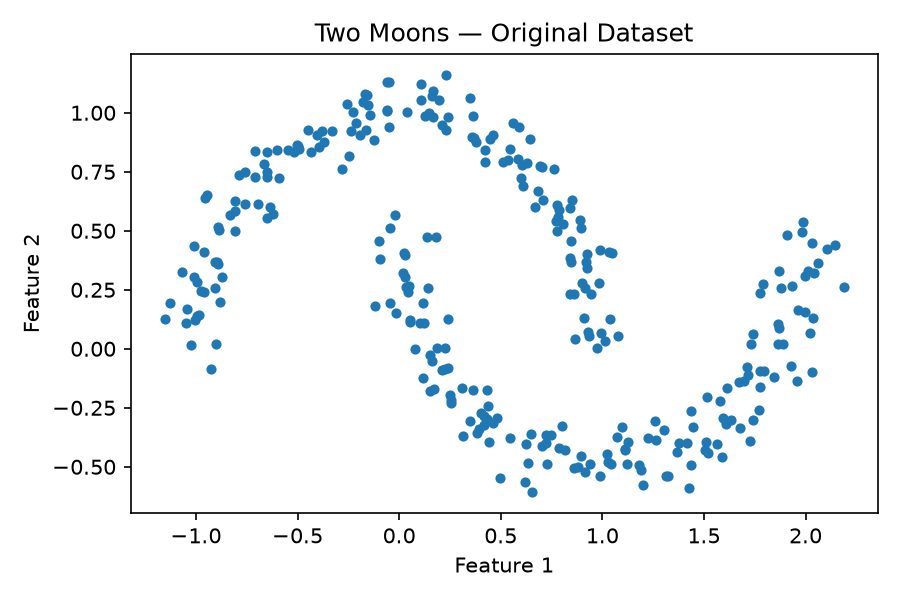
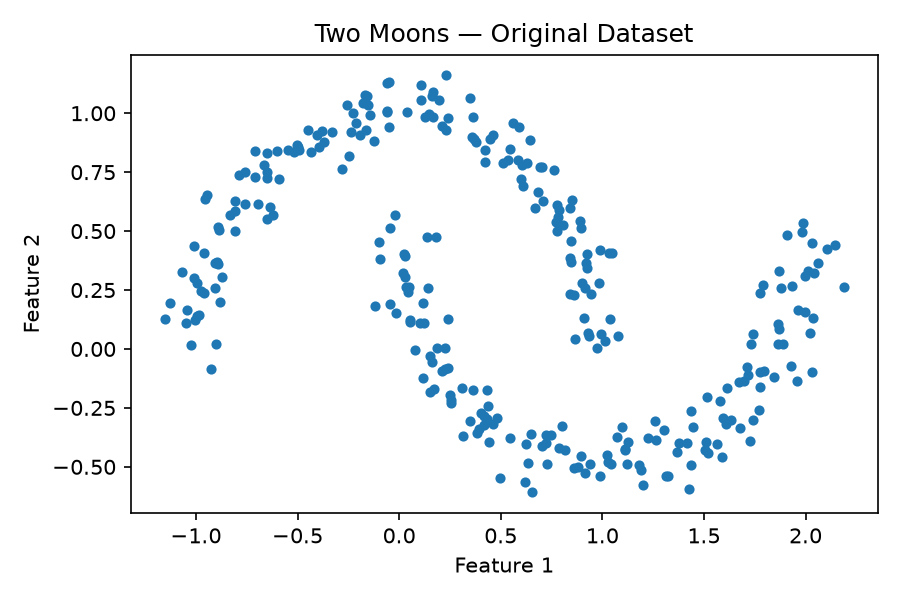
feat(kmeans,  clarans): added comparison clustering models

diff --git a/main.py b/main.py
@@ -1,20 +1,37 @@
 
 from pathlib import Path
+from time import perf_counter
 
 import matplotlib.pyplot as plt
 from sklearn.datasets import make_moons
+from sklearn.metrics import adjusted_rand_score
 
+from clarans import clarans
 from dbscan import NOISE, dbscan
+from kmeans import kmeans
 
 
 FIGURES_DIR = Path(__file__).parent / "figures"
+
+
+def _plot_clusters(ax, X, labels, title):
+    clustered = labels != NOISE
+    ax.scatter(X[clustered, 0], X[clustered, 1],
+               c=labels[clustered], cmap="tab10", s=15)
+    if (~clustered).any():
+        ax.scatter(X[~clustered, 0], X[~clustered, 1],
+                   c="gray", marker="x", s=15, label="Noise")
+        ax.legend()
+    ax.set_title(title)
+    ax.set_xlabel("Feature 1")
+    ax.set_ylabel("Feature 2")
 
 
 def main():
     FIGURES_DIR.mkdir(exist_ok=True)
 
     # Generate a simple 2D clustering dataset
-    X, _ = make_moons(
+    X, y = make_moons(
         n_samples=300,
         noise=0.07,
         random_state=42
@@ -30,25 +47,39 @@ def main():
 
     plt.savefig(FIGURES_DIR / "two_moons.png", dpi=150)
 
-    eps, min_pts = 0.2, 4
-    labels = dbscan(X, eps=eps, min_pts=min_pts)
-    n_clusters = len(set(labels) - {NOISE})
-    n_noise = int((labels == NOISE).sum())
-    print(f"Clusters found: {n_clusters}, noise points: {n_noise}")
+    eps, min_pts, k = 0.2, 4, 2
+    algorithms = [
+        ("DBSCAN", f"eps={eps}, MinPts={min_pts}",
+         lambda: dbscan(X, eps=eps, min_pts=min_pts)),
+        ("K-means", f"k={k}",
+         lambda: kmeans(X, n_clusters=k, random_state=42)),
+        ("CLARANS", f"k={k}, restarts=2, neighbors=50",
+         lambda: clarans(X, n_clusters=k, num_local=2,
+                         max_neighbors=50, random_state=42)),
+    ]
 
-    plt.figure(figsize=(6, 4))
-    clustered = labels != NOISE
-    plt.scatter(X[clustered, 0], X[clustered, 1],
-                c=labels[clustered], cmap="tab10", s=15)
-    if n_noise:
-        plt.scatter(X[~clustered, 0], X[~clustered, 1],
-                    c="gray", marker="x", s=15, label="Noise")
-        plt.legend()
-    plt.title(f"DBSCAN — Two Moons (eps={eps}, MinPts={min_pts})")
-    plt.xlabel("Feature 1")
-    plt.ylabel("Feature 2")
-    plt.tight_layout()
-    plt.savefig(FIGURES_DIR / "two_moons_dbscan.png", dpi=150)
+    comparison, axes = plt.subplots(1, 3, figsize=(16, 4),
+                                    sharex=True, sharey=True)
+    print(f"{'Algorithm':<10} {'Clusters':>8} {'Noise':>7} {'ARI':>8} {'Time (s)':>10}")
+    for ax, (name, params, run) in zip(axes, algorithms):
+        start = perf_counter()
+        labels = run()
+        elapsed = perf_counter() - start
+        n_clusters = len(set(labels) - {NOISE})
+        n_noise = int((labels == NOISE).sum())
+        ari = adjusted_rand_score(y, labels)
+        print(f"{name:<10} {n_clusters:>8} {n_noise:>7} {ari:>8.3f} {elapsed:>10.4f}")
+
+        title = f"{name} — Two Moons\n({params})"
+        _plot_clusters(ax, X, labels, title)
+        fig, single_ax = plt.subplots(figsize=(6, 4))
+        _plot_clusters(single_ax, X, labels, title)
+        fig.tight_layout()
+        filename = name.lower().replace("-", "")
+        fig.savefig(FIGURES_DIR / f"two_moons_{filename}.png", dpi=150)
+
+    comparison.tight_layout()
+    comparison.savefig(FIGURES_DIR / "two_moons_comparison.png", dpi=150)
     plt.show()
 
 

diff --git a/clarans.py b/clarans.py
@@ -1,0 +1,78 @@
+"""
+CLARANS - Clustering Large Applications based upon RANdomized Search.
+Simple k-medoids baseline with random swaps and multiple restarts.
+Reference: Ng and Han, "CLARANS: A Method for Clustering Objects
+    for Spatial Data Mining", IEEE TKDE, 2002.
+"""
+
+from numbers import Integral
+
+import numpy as np
+from sklearn.metrics import pairwise_distances
+from sklearn.utils.validation import check_array
+
+
+def clarans(X, n_clusters, num_local=2, max_neighbors=50, random_state=42):
+    """
+    Parameters
+    ----------
+    X             : (n, d) sample matrix
+    n_clusters    : number of medoids (representative data points)
+    num_local     : number of random restarts
+    max_neighbors : stop a search after this many consecutive rejected swaps
+    random_state  : seed for reproducible initialization and swaps
+
+    Returns
+    -------
+    labels : (n,) array, 0..k-1 for cluster ids (no noise label)
+
+    Minimize the sum of Euclidean distances to the nearest medoid.
+    Distances are cached in an (n, n) matrix, so this simple version is
+    intended for small comparison datasets rather than large databases.
+    """
+    X = check_array(X, dtype=float)
+    n = len(X)
+    for name, value in (("n_clusters", n_clusters), ("num_local", num_local),
+                        ("max_neighbors", max_neighbors)):
+        if isinstance(value, bool) or not isinstance(value, Integral) or value < 1:
+            raise ValueError(f"{name} must be a positive integer")
+    if n_clusters > n:
+        raise ValueError("n_clusters must not exceed the number of samples")
+    if n_clusters == n:
+        return np.arange(n)
+
+    rng = np.random.default_rng(random_state)
+    distances = pairwise_distances(X, metric="euclidean")
+    best_cost = np.inf
+    best_medoids = None
+
+    for _ in range(num_local):
+        medoids = rng.choice(n, size=n_clusters, replace=False)
+        non_medoids = np.setdiff1d(np.arange(n), medoids)
+        cost = distances[:, medoids].min(axis=1).sum()
+        rejected = 0
+
+        while rejected < max_neighbors:
+            # A neighbor replaces one medoid with one non-medoid.
+            medoid_pos = rng.integers(n_clusters)
+            candidate_pos = rng.integers(len(non_medoids))
+            neighbor = medoids.copy()
+            neighbor[medoid_pos] = non_medoids[candidate_pos]
+            neighbor_cost = distances[:, neighbor].min(axis=1).sum()
+
+            if neighbor_cost < cost:
+                non_medoids[candidate_pos] = medoids[medoid_pos]
+                medoids = neighbor
+                cost = neighbor_cost
+                rejected = 0
+            else:
+                rejected += 1
+
+        if cost < best_cost:
+            best_cost = cost
+            best_medoids = medoids.copy()
+
+    labels = distances[:, best_medoids].argmin(axis=1)
+    # Keep each medoid in its own cluster when duplicate points tie.
+    labels[best_medoids] = np.arange(n_clusters)
+    return labels

diff --git a/test_clustering.py b/test_clustering.py
@@ -1,0 +1,62 @@
+"""Baseline clustering tests. Run with: python test_clustering.py"""
+
+import unittest
+
+import numpy as np
+from sklearn.datasets import make_blobs
+from sklearn.metrics import adjusted_rand_score
+
+from clarans import clarans
+from kmeans import kmeans
+
+
+class ClusteringTests(unittest.TestCase):
+    def test_separated_clusters(self):
+        """Both baselines should recover three well-separated blobs."""
+        X, y = make_blobs(n_samples=90, centers=[[-8, 0], [0, 8], [8, 0]],
+                          cluster_std=0.25, random_state=42)
+        for algorithm in (kmeans, clarans):
+            with self.subTest(algorithm=algorithm.__name__):
+                labels = algorithm(X.tolist(), n_clusters=3)
+                self.assertEqual(labels.shape, (len(X),))
+                self.assertTrue(np.issubdtype(labels.dtype, np.integer))
+                self.assertEqual(set(labels), {0, 1, 2})
+                self.assertEqual(adjusted_rand_score(y, labels), 1.0)
+
+    def test_reproducible_labels(self):
+        X, _ = make_blobs(n_samples=60, centers=3, random_state=7)
+        for algorithm in (kmeans, clarans):
+            with self.subTest(algorithm=algorithm.__name__):
+                first = algorithm(X, n_clusters=3, random_state=7)
+                second = algorithm(X, n_clusters=3, random_state=7)
+                np.testing.assert_array_equal(first, second)
+
+    def test_clarans_duplicate_points(self):
+        """Duplicate medoids must retain their own cluster on distance ties."""
+        labels = clarans(np.zeros((8, 2)), n_clusters=3)
+        self.assertEqual(set(labels), {0, 1, 2})
+
+    def test_clarans_cluster_limits(self):
+        X = np.array([[0.], [1.], [10.]])
+        np.testing.assert_array_equal(clarans(X, n_clusters=1), [0, 0, 0])
+        np.testing.assert_array_equal(clarans(X, n_clusters=3), [0, 1, 2])
+        np.testing.assert_array_equal(clarans([[1., 2.]], n_clusters=1), [0])
+
+    def test_clarans_invalid_parameters(self):
+        X = np.array([[0.], [1.], [10.]])
+        for name in ("n_clusters", "num_local", "max_neighbors"):
+            for value in (0, -1, 1.5, True):
+                with self.subTest(parameter=name, value=value):
+                    params = {"n_clusters": 2, name: value}
+                    with self.assertRaises(ValueError):
+                        clarans(X, **params)
+        with self.assertRaises(ValueError):
+            clarans(X, n_clusters=4)
+        for invalid in (np.empty((0, 2)), [[np.nan]], [[np.inf]], [0., 1.]):
+            with self.subTest(data=invalid):
+                with self.assertRaises(ValueError):
+                    clarans(invalid, n_clusters=1)
+
+
+if __name__ == "__main__":
+    unittest.main()

diff --git a/test.py b/test.py
@@ -99,7 +99,7 @@ def test_against_sklearn():
         X = _blobs(n=400, centers=4, std=0.6, seed=seed, noise=30)
         eps, mp = 0.8, 5
         ours = dbscan(X, eps, mp)
-        sk = SkDBSCAN(eps=eps, min_samples=mp).fit_predict(X)
+        sk = SkDBSCAN(eps=eps, min_samples=mp).fit(X)
 
         sk_core = np.zeros(len(X), bool)
         sk_core[sk.core_sample_indices_] = True
@@ -107,7 +107,7 @@ def test_against_sklearn():
 
         assert np.array_equal(our_core, sk_core), \
             f"seed={seed}: core point sets differ"
-        ari = adjusted_rand_score(ours[our_core], sk[our_core])
+        ari = adjusted_rand_score(ours[our_core], sk.labels_[our_core])
         assert ari > 0.999, f"seed={seed}: core point partition ARI={ari:.4f}"
 
 

diff --git a/kmeans.py b/kmeans.py
@@ -1,0 +1,21 @@
+"""K-means baseline using scikit-learn."""
+
+from sklearn.cluster import KMeans
+
+
+def kmeans(X, n_clusters, random_state=42, n_init=10):
+    """
+    Parameters
+    ----------
+    X            : (n, d) sample matrix
+    n_clusters   : number of clusters to find
+    random_state : seed for reproducible initialization
+    n_init       : number of initializations; keep the best result
+
+    Returns
+    -------
+    labels : (n,) array, 0..k-1 for cluster ids (no noise label)
+    """
+    model = KMeans(n_clusters=n_clusters, n_init=n_init,
+                   random_state=random_state)
+    return model.fit_predict(X)

diff --git a/README.md b/README.md
@@ -34,12 +34,45 @@ python -m pip install -r requirements.txt
 python main.py
 ```
 
-Generates the two-moons dataset, runs DBSCAN with `eps=0.2` and
-`min_pts=4`, prints cluster/noise counts, and displays the original data
-and clustering result. Figures are saved to `figures/two_moons.png` and
-`figures/two_moons_dbscan.png`.
+Generates the same two-moons dataset for DBSCAN, K-means, and CLARANS.
+DBSCAN uses `eps=0.2` and `min_pts=4`; the other algorithms are given
+`n_clusters=2`. Random seeds are fixed at 42 for reproducibility.
 
-The supplied implementation also includes its own demo with a k-distance
+The demo prints cluster/noise counts, adjusted Rand index (ARI) against
+the generated labels, and clustering runtime in seconds. ARI includes all
+points, including any DBSCAN noise points; 1.0 means a perfect match.
+Timings are single runs on this small dataset, not a scaling benchmark.
+
+Figures are saved in `figures/`: the original `two_moons.png`, individual
+`two_moons_dbscan.png`, `two_moons_kmeans.png`, and `two_moons_clarans.png`
+plots, plus a side-by-side `two_moons_comparison.png`.
+
+## Baseline algorithms
+
+Both baselines follow the `dbscan.py` interface: pass a sample matrix and
+receive a NumPy array of integer cluster labels.
+
+```python
+from kmeans import kmeans
+from clarans import clarans
+
+kmeans_labels = kmeans(X, n_clusters=2, random_state=42)
+clarans_labels = clarans(X, n_clusters=2, num_local=2,
+                        max_neighbors=50, random_state=42)
+```
+
+- `kmeans.py` wraps [scikit-learn's KMeans](https://scikit-learn.org/stable/modules/generated/sklearn.cluster.KMeans.html)
+  with 10 initializations by default.
+- `clarans.py` implements the random medoid swaps and restarts from
+  [Ng and Han's CLARANS algorithm](https://cs.ecu.edu/dingq/CSCI6905/readings/CLARANS.pdf)
+  using NumPy and scikit-learn's Euclidean distances. `num_local` controls
+  restarts; `max_neighbors` limits consecutive rejected swaps per search.
+  It caches an O(n²) distance matrix, so it is intended for small experiments.
+
+Both require a cluster count and assign every point to a cluster. All
+dependencies are already included in `requirements.txt`.
+
+DBSCAN also includes its own demo with a k-distance
 graph and suggested epsilon:
 
 ```bash
@@ -50,11 +83,14 @@ python dbscan.py
 
 ```bash
 python test.py
+python test_clustering.py
 ```
 
 The supplied runner prints a result for each test and exits with a nonzero
 status if any test fails. It covers basic clustering, comparison with
 scikit-learn, point-order behavior, cluster definitions, and parameter behavior.
+The baseline tests cover separated clusters, reproducibility, duplicate points,
+cluster-count limits, and invalid CLARANS parameters.
 
 Run the supplied performance benchmark separately:
 
@@ -64,14 +100,20 @@ python test.py --bench
 
 ## Project Status
 
-The groupmate's implementation is in `dbscan.py` and the supplied tests
-are in `test.py`. Both files are preserved unchanged.
-
-Current known failure: with SciPy installed, all 11 supplied tests fail with
-`TypeError: __init__() got an unexpected keyword argument 'leaf_size'`
-from the `cKDTree` call in `_region_queries`. Both demos and the benchmark
-also use this code path, so they currently stop with the same error before
-producing clustering results. The original-data figure from `main.py` is
-saved before that call. This bug is intentionally left for later correction.
+The DBSCAN implementation is in `dbscan.py`, with baselines in `kmeans.py`
+and `clarans.py`. The original DBSCAN implementation is unchanged by the
+baseline comparison work. The supplied scikit-learn cross-check in `test.py`
+uses the fitted estimator to access core sample indices and labels.
 
 ## Results
+
+On the default two-moons dataset with the parameters above:
+
+| Algorithm | Clusters | Noise points | ARI |
+| --- | ---: | ---: | ---: |
+| DBSCAN | 2 | 0 | 1.000 |
+| K-means | 2 | 0 | 0.254 |
+| CLARANS | 2 | 0 | 0.311 |
+
+These results compare recovery of the two curved moons on this dataset;
+they do not establish performance across other cluster shapes or datasets.
